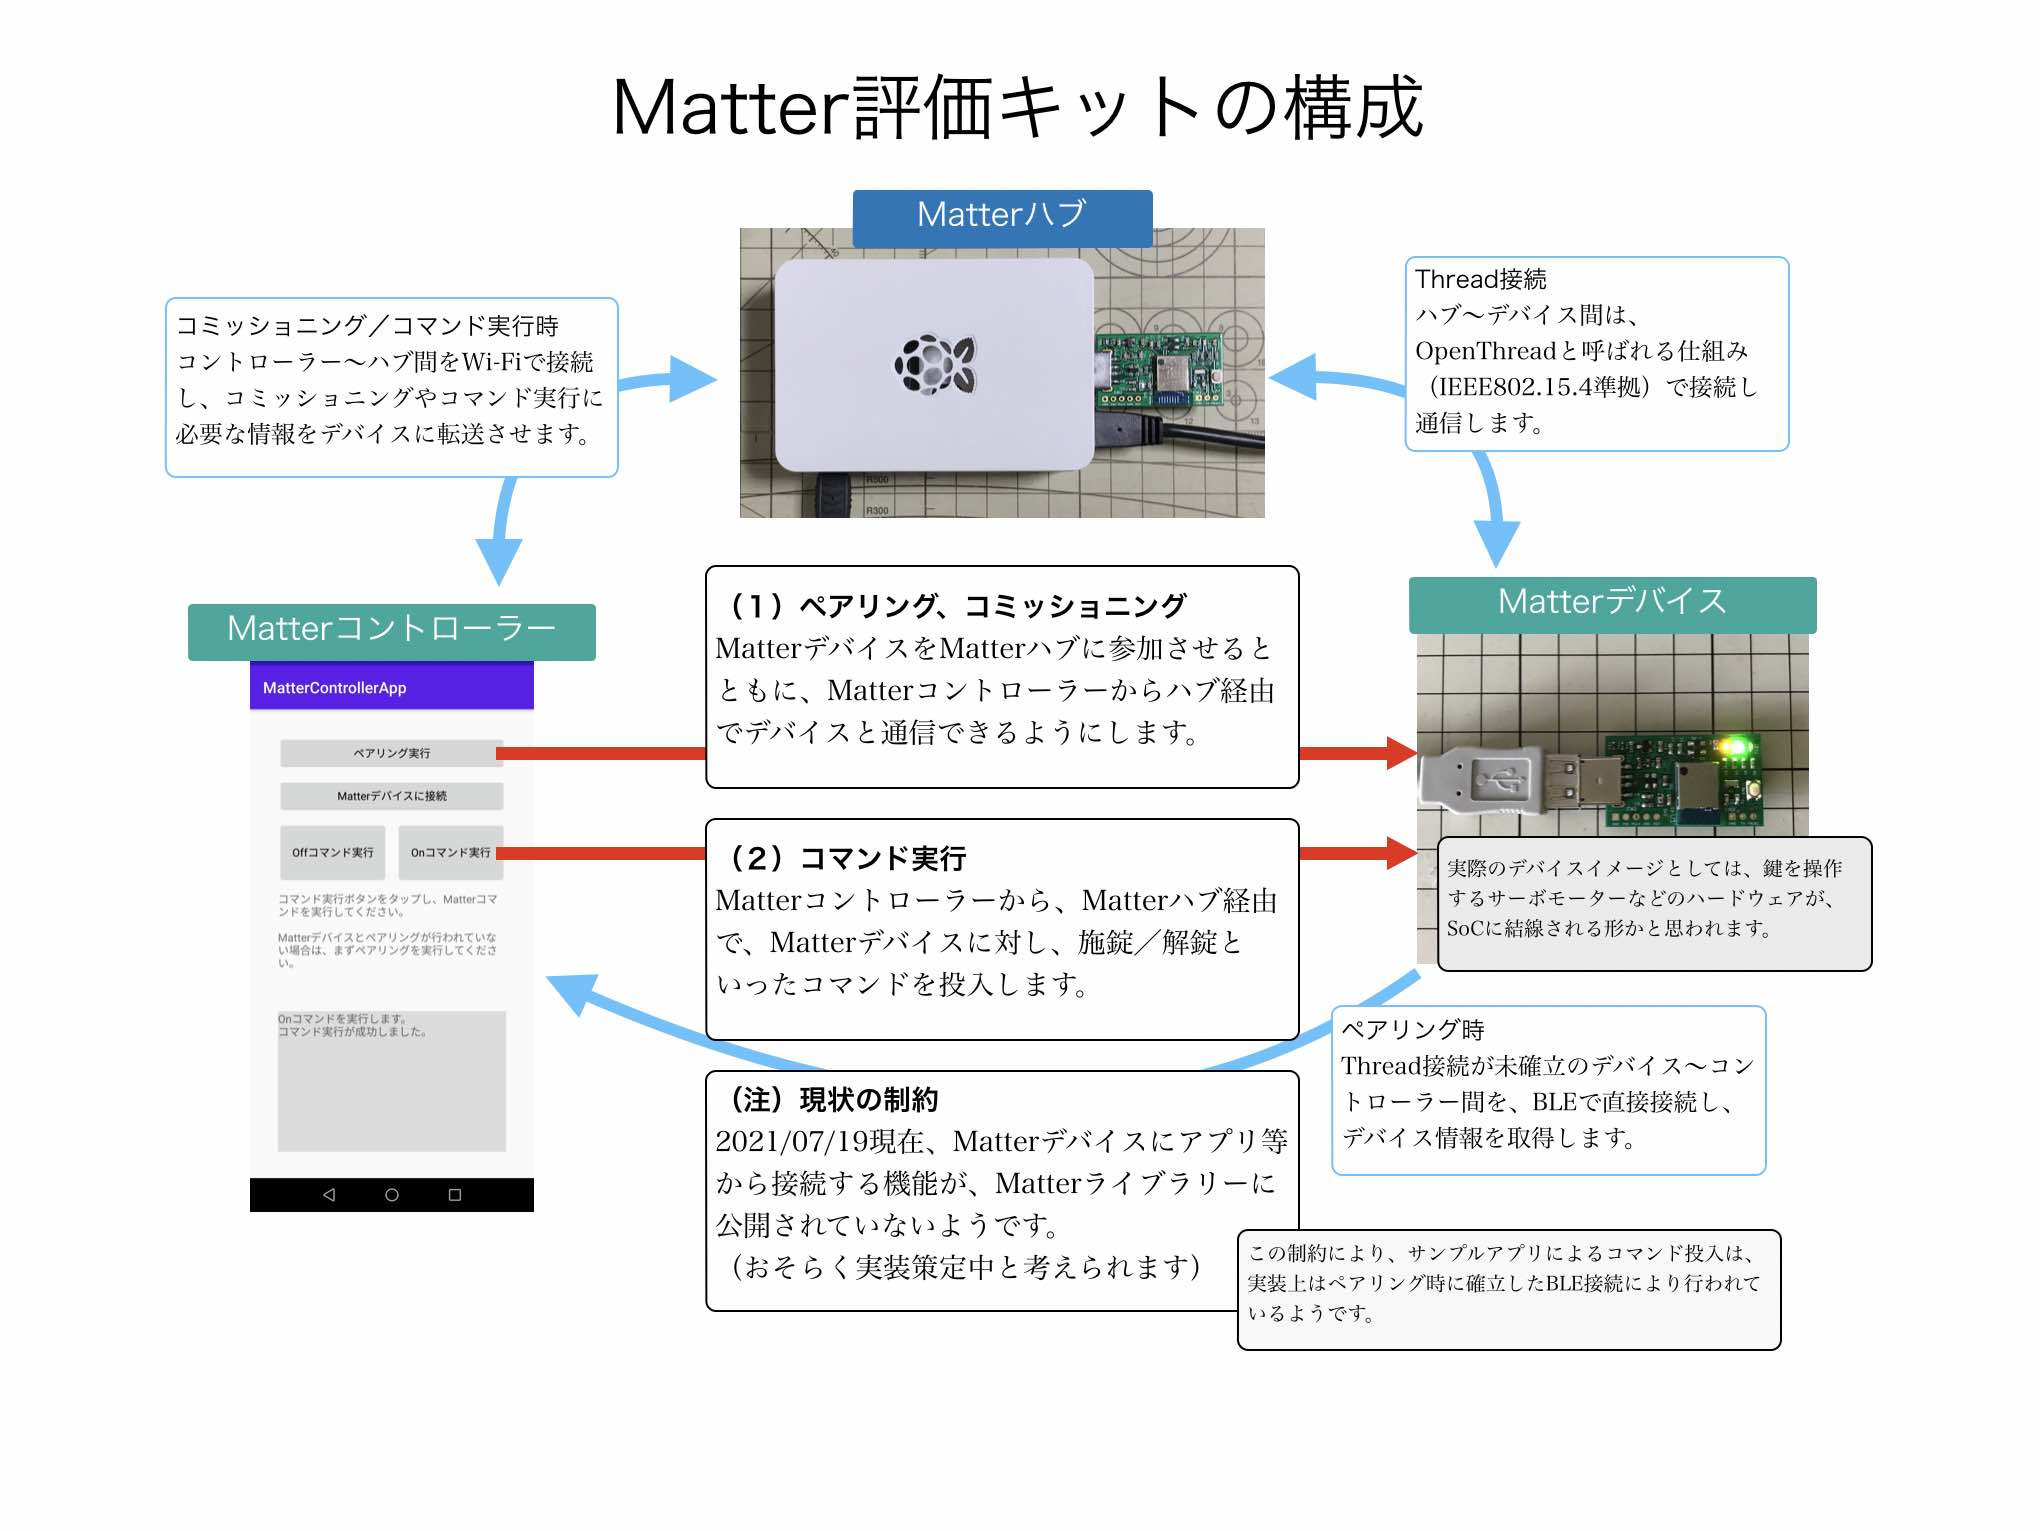
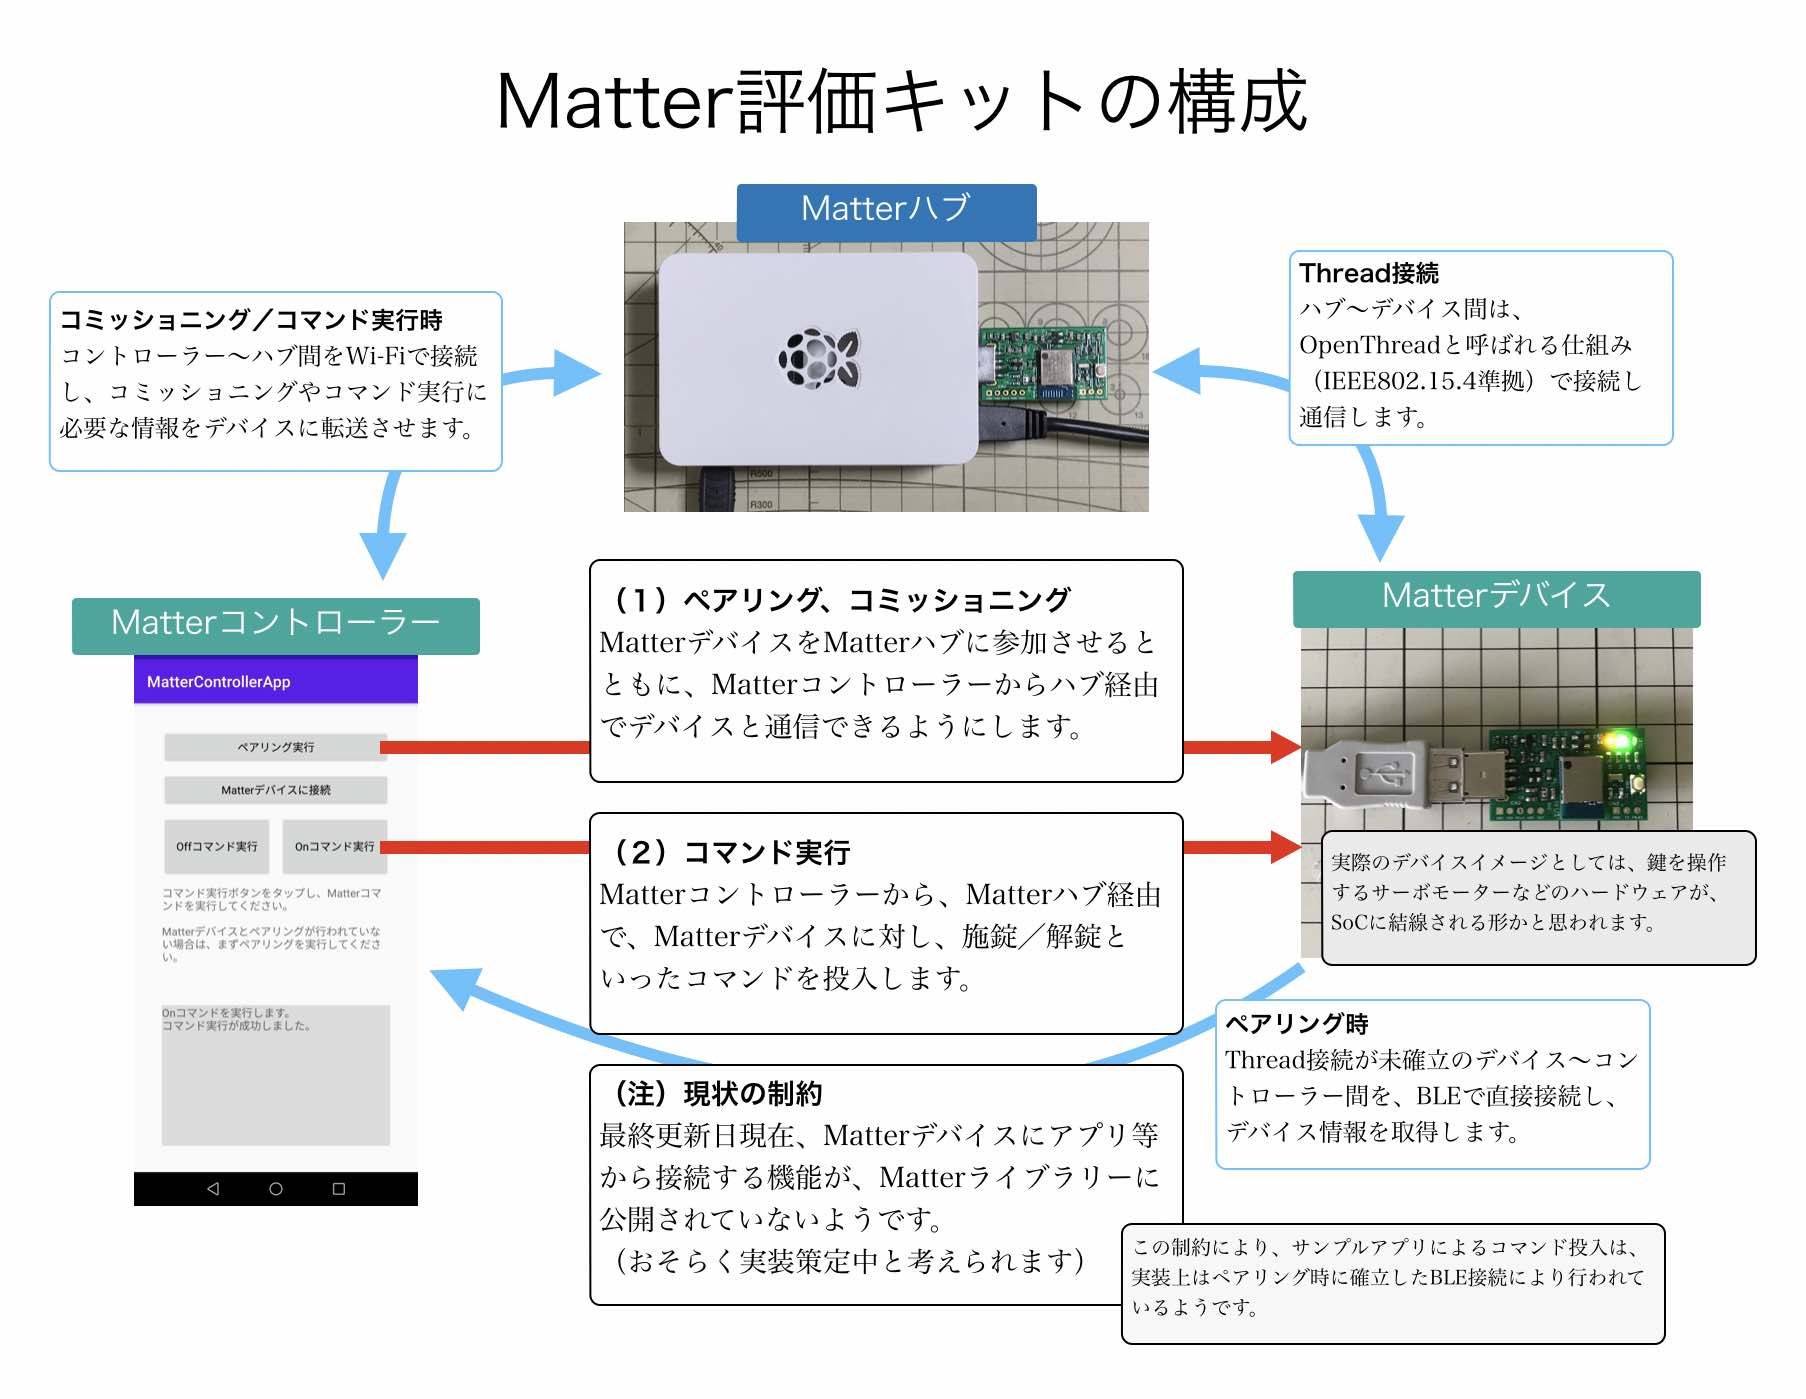
ドキュメントを修正
・READMEを若干修正

Changed region(s): [[0.031, 0.1229, 0.9612, 0.9528], [0.2791, 0.0307, 0.7442, 0.0922], [0.4341, 0.2152, 0.4961, 0.2766]]

diff --git a/MatterPoCKit/README.md b/MatterPoCKit/README.md
@@ -1,5 +1,7 @@
 # Matter評価キット
 
+最終更新日：2021/07/20
+
 ## 概要
 新しいスマートホーム共通規格「[Matter](https://buildwithmatter.com)」についての評価用ハードウェア／ソフトウェアです。
 
@@ -44,5 +46,5 @@ Matterデバイスアプリ（ファームウェア）をnRF52840環境にイン
 - <b>[Matterハブ構築手順](../MatterPoCKit/SETUPHUB.md)</b><br>
 Matterハブを構築する手順について掲載します。
 
-- <b>[Matterコマンド実行手順]()</b><br>
+- <b>[Matterコマンド実行手順](../MatterPoCKit/DOCOMMAND.md)</b><br>
 コントローラーアプリを使用し、デバイスにMatterコマンドを送信する手順について掲載します。
